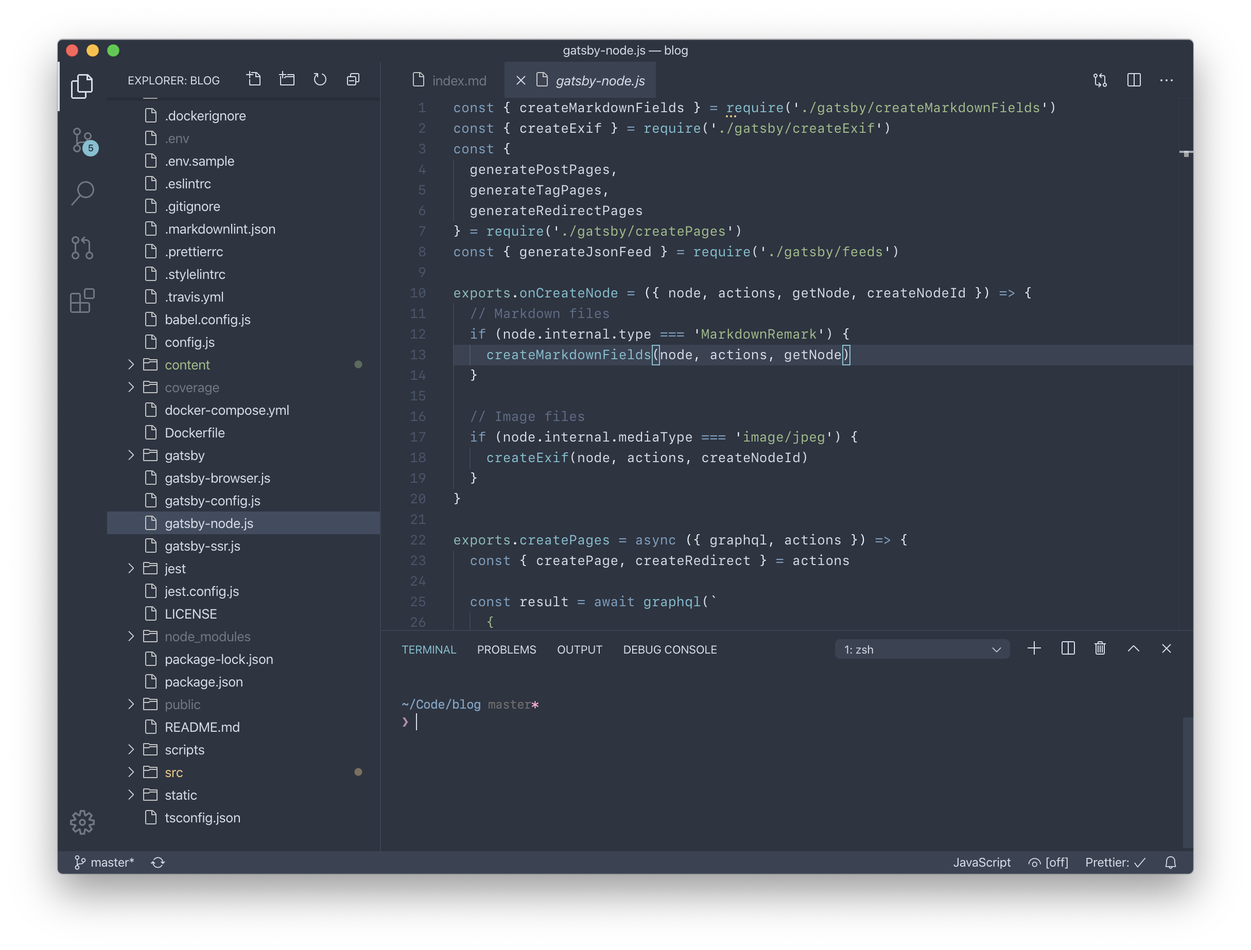
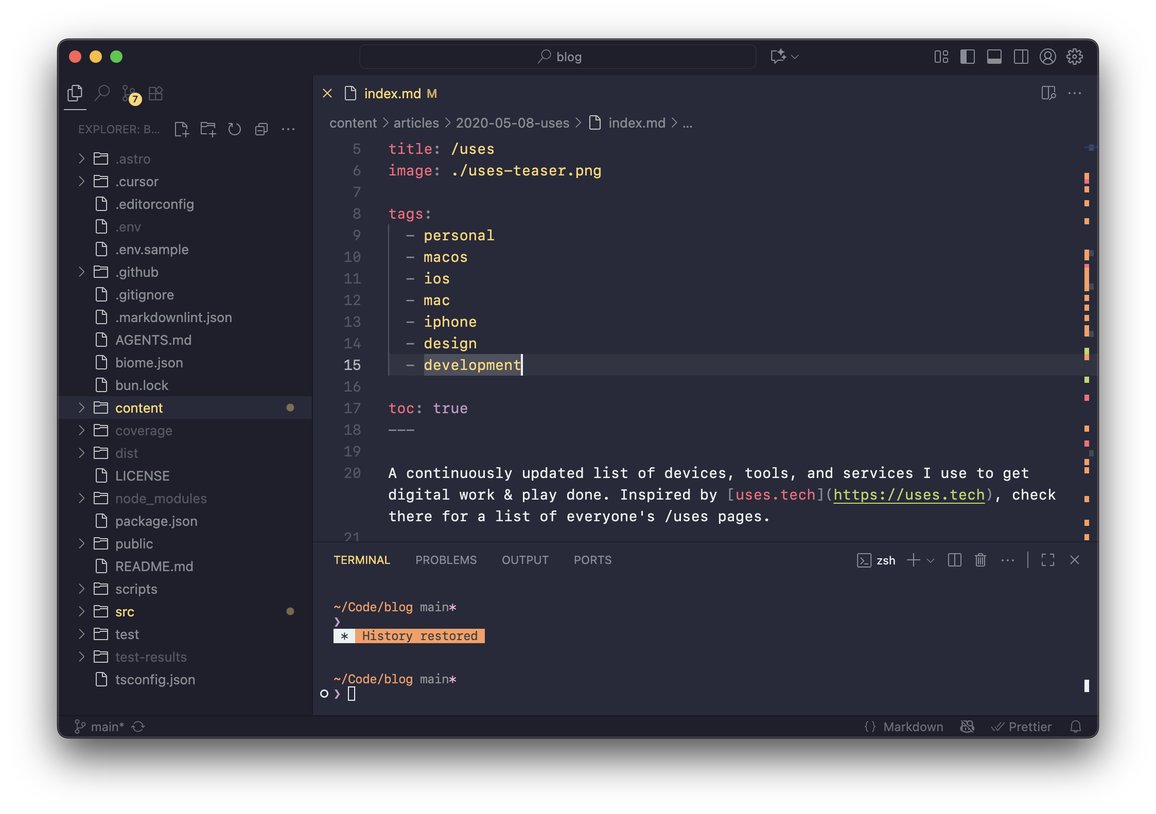
/uses updates

diff --git a/content/articles/2020-05-08-uses/index.md b/content/articles/2020-05-08-uses/index.md
@@ -1,6 +1,6 @@
 ---
 date: 2020-05-10T21:51:12Z
-updated: 2024-09-26T18:41:12+00:00
+updated: 2025-09-23T19:31:12Z
 
 title: /uses
 image: ./uses-teaser.png
@@ -25,248 +25,226 @@ A continuously updated list of devices, tools, and services I use to get digital
 
 My office is where my MacBook is, all these devices go wherever I travel to:
 
-- **[MacBook Air M2 (13-inch, 2022)](https://www.apple.com/macbook-air-13-and-15-m2/)**  
+- **[MacBook Air M2 (13-inch, 2022)](https://www.apple.com/macbook-air-13-and-15-m2/)**
   _Midnight, M2 with 8-core CPU and 10-core GPU, 16 GB RAM, 1TB SSD, US International keyboard_
 
-- **[iPhone 16 Pro](https://www.apple.com/iphone-16-pro/)**  
+- **[iPhone 16 Pro](https://www.apple.com/iphone-16-pro/)**
   _Black Titanium, 256GB_
 
 - **[AirPods Pro](https://www.apple.com/airpods-pro/)**
-
-- **[iPad Pro (12.9-inch) 2021](https://www.apple.com/ipad-pro/)**  
+-
+- **[Powerbeats Pro 2](https://www.beatsbydre.com/earbuds/powerbeats-pro-2)**
+-
+- **[iPad Pro (12.9-inch) 2021](https://www.apple.com/ipad-pro/)**
   _Space Gray, 512GB, WiFi + Cellular_
 
-- **[Apple Watch Series 5](https://www.apple.com/apple-watch-series-5/)**  
-  _40mm Space Gray Aluminum Case, Black Solo Loop_
+- **[Apple Watch Series 10](https://www.apple.com/watch/)**
+  _46mm, Space Gray, Aluminum_
 
-- **[Kindle Paperwhite 11th Gen](https://www.amazon.com/dp/B08KTZ8249)**
+Additionally, using the following devices in my homebase, those leave my desk for longer trips:
 
-Additionally, using the following devices in my homebase, those only leave my desk for longer trips:
-
-- **[MacBook Pro (16-inch, 2019)](https://www.apple.com/macbook-pro-16/)**  
-  _Space Gray, 2.6GHz 6-Core Intel Core i7, 16 GB RAM, 512GB SSD, AMD Radeon Pro 5300M 4GB, US International keyboard_
-
-- **[Logitech MX Master 3 for Mac](https://www.logitech.com/en-us/products/mice/mx-master-3-mac-wireless-mouse.910-005693.html)**  
+- **[Logitech MX Master 3 for Mac](https://www.logitech.com/en-us/products/mice/mx-master-3-mac-wireless-mouse.910-005693.html)**
   _Black & Space Gray_
 
-- **[Satechi Slim X1 Bluetooth Backlit Keyboard](https://satechi.net/products/slim-x1-bluetooth-backlit-keyboard)**  
+- **[Satechi Slim X1 Bluetooth Backlit Keyboard](https://satechi.net/products/slim-x1-bluetooth-backlit-keyboard)**
   _US, Space Gray_
 
-- **[Raspberry Pi 5](https://www.raspberrypi.com/products/raspberry-pi-5/)**  
+- **[Raspberry Pi 5](https://www.raspberrypi.com/products/raspberry-pi-5/)**
   _8GB RAM_
 
 ## Software
 
-It's [macOS](https://www.apple.com/macos/) & [iOS](https://www.apple.com/ios/) & [iPadOS](https://www.apple.com/ipados/) & [watchOS](https://www.apple.com/watchos/) all around. The majority of my work is done on macOS.
+In general, it's [macOS](https://www.apple.com/macos/) & [iOS](https://www.apple.com/ios/) & [iPadOS](https://www.apple.com/ipados/) & [watchOS](https://www.apple.com/watchos/) all around. The majority of my work is done on macOS.
 
-I keep it simple and use most of the default Apple apps across devices for all basic computing needs: **Mail**, **Calendar**, **Notes**, **Reminders**, **Contacts**, **Messages**, **Photos**, **Music**. Most of the additional apps I use have versions for macOS & iOS.
+I keep it simple and use the default Apple apps across devices for all basic computing needs: **Mail**, **Calendar**, **Notes**, **Reminders**, **Contacts**, **Messages**, **Photos**, **Music**. The additional apps I use have versions for macOS & iOS.
 
-Living a cloud-first life where all my files are stored in some cloud service and are selectively synced to any device. Mail, Calendar, and Contacts are hooked up to personal and work **[Google G Suite](https://gsuite.google.com)** accounts.
+Living a cloud-first life where all my files are stored in some cloud service and are selectively synced to any device.
+
+Mail, Calendar, and Contacts are hooked up to personal and work **[Fastmail](https://www.fastmail.com)** accounts.
 
 I live with **automatic dark mode** where all my devices and apps have a light theme during the day, and a dark theme after sunset.
 
 ### File Storage & Sync
 
-- **Finder & Files**  
-  So simple, yet powerful. I use Finder & the iOS Files app to access all my files from multiple sources: iCloud, SSH servers through [Secure ShellFish](https://secureshellfish.app), local [network drives attached to my Raspberry Pi](/raspberry-pi-file-and-screen-sharing-macos-ios), or version controlled projects in WorkingCopy.
+- **Finder & Files**
+  Simple, yet powerful. I use Finder & the iOS Files app to access all my files from multiple sources: iCloud, SSH servers through [Secure ShellFish](https://secureshellfish.app), local [network drives attached to my Raspberry Pi](/raspberry-pi-file-and-screen-sharing-macos-ios), or version controlled projects in WorkingCopy.
 
-- **[iCloud Drive, 2 TB](https://www.icloud.com)**  
-  I have used Dropbox Pro for many years but it became too clunky and Apple's version turned into what I wanted Dropbox to be. Most of my non-code related files live there and are happily synced. Since [Advanced Data Protection](https://support.apple.com/guide/security/advanced-data-protection-for-icloud-sec973254c5f/web) also replaces [Tresorit](https://tresorit.com) for me.
+- **[iCloud Drive, 2 TB](https://www.icloud.com)**
+  I have used Dropbox Pro for many years but it became too clunky and Apple's version turned into what I wanted Dropbox to be. My non-code related files live there and are happily synced.
 
-- **[Scanner Pro](https://readdle.com/scannerpro)**  
-  Listed here because this app on my iPhone makes every piece of paper coming across my desk into a digital file helping me maintain a **paperless office**. Works like a charm with any document in multiple languages making them searchable with OCR. Every scan I do with it produces a high quality black & white PDF file, ready for digital filing. This gives me quick access to every official document I might need to give to someone no matter where I am in the world. Scanned paper documents are then destroyed and put into recycling.
+- **[Scanner Pro](https://readdle.com/scannerpro)**
+  Listed here because this app on my iPhone makes every piece of paper coming across my desk into a digital file helping me maintain a **paperless office**. Works like a charm with any document in multiple languages making them searchable with OCR. Scanned paper documents are then destroyed and put into recycling.
 
 ### Browsing
 
-- **[Safari](https://www.apple.com/safari/)**  
+- **[Safari](https://www.apple.com/safari/)**
   My main browser on every device. I stay for best typography rendering of any browser, the feature & UI minimalism, and the privacy and content blocking features. No extensions at all except for 1Blocker.
 
-- **[DuckDuckGo](https://duckduckgo.com)**  
+- **[DuckDuckGo](https://duckduckgo.com)**
   My search engine on all devices in all browsers.
 
-- **[1Blocker](https://1blocker.com)**  
-  My content blocker of choice for Safari so I rarely see any ad tech bullshit even outside of my network without Pi-Hole. Fast, effective, and completely unobtrusive on every device.
+- **[1Blocker](https://1blocker.com)**
+  My content blocker of choice for Safari so I rarely see any ad tech bullshit. Fast, effective, and unobtrusive on every device.
 
-- **[Thorium](https://thorium.rocks)**  
-  My secondary browser on macOS mainly used for all things crypto, development and debugging. Sadly Firefox stopped support for connecting hardware wallets so had to switch to a browser based on Chromium. Running with those extensions:
-
-  - [React Developer Tools](https://addons.mozilla.org/en-US/firefox/addon/react-devtools/)
-  - Switching between [Zerion](https://zerion.io) & [Rainbow](https://rainbow.me) as daily drivers for web3 stuff.
-  - [MetaMask](https://metamask.io): the wallet for Dapp testing.
-  - [uBlock Origin](https://ublockorigin.com): I wish Safari content blockers could also be used in other browsers but uBlock Origin does a good job too.
-
-- Test browsers: **Firefox**, **Chrome**, **Edge**, **Brave**, **Opera**
+- **[Ungoogled Chromium](https://github.com/ungoogled-software/ungoogled-chromium-macos)**
+  My secondary browser on macOS mainly used for all things crypto. Sadly Firefox stopped support for connecting hardware wallets and they refuse to fix their [broken pinned tabs feature](https://connect.mozilla.org/t5/ideas/make-pinned-tabs-persist-between-windows-by-default/idi-p/8059), so I had to switch to a browser based on Chromium. Switching between [Zerion](https://zerion.io) & [Rainbow](https://rainbow.me) & [MetaMask](https://metamask.io) as daily drivers for web3 stuff.
 
 ### Development
 
-![Terminal.app: Nord, SF Mono, Pure](./terminal.png)
-![VS Code dark theme: Nord, SF Mono](./vscode-dark.png)
-![VS Code light theme: Polar, SF Mono](./vscode-light.png)
+- **[VS Code](https://code.visualstudio.com) & [Cursor](https://cursor.com/)**
+  From Notepad, to Dreamweaver, to CSS Edit, to Coda, to Espresso, to TextMate, to Atom, and now I arrived at VS Code. Its feature set, coding experience, and ecosystem far outweigh the Electron drawbacks, and at least it is the most performant Electron app I know.
 
-- **[VS Code](https://code.visualstudio.com)**  
-  From Notepad, to Dreamweaver, to CSS Edit, to Coda, to Espresso, to TextMate, to Atom, and now I arrived at VS Code. Its feature set, coding experience, and ecosystem far outweigh the Electron drawbacks, and at least it is the most performant Electron app I know. I still miss [Espresso](https://www.espressoapp.com) as my personal gold standard for how a code editor UI on macOS should look and behave. Using only a small set of extensions mostly for automatic code formatting based on various tools:
+  Using a small set of extensions for automatic code formatting with either ESLint/Prettier combo or Biome in both editors.
 
-  - [Nord](https://marketplace.visualstudio.com/items?itemName=arcticicestudio.nord-visual-studio-code): patiently awaiting a light version of it, until then [Polar](https://marketplace.visualstudio.com/items?itemName=merithayan.polar) does the job.
-  - [ESLint](https://marketplace.visualstudio.com/items?itemName=dbaeumer.vscode-eslint)
-  - [GitHub Pull Requests and Issues](https://marketplace.visualstudio.com/items?itemName=GitHub.vscode-pull-request-github)
-  - [Import Cost](https://marketplace.visualstudio.com/items?itemName=wix.vscode-import-cost)
-  - [Markdown All in One](https://marketplace.visualstudio.com/items?itemName=yzhang.markdown-all-in-one)
-  - [npm Intellisense](https://marketplace.visualstudio.com/items?itemName=christian-kohler.npm-intellisense)
-  - [Prettier](https://marketplace.visualstudio.com/items?itemName=esbenp.prettier-vscode)
-  - [Spell Right](https://marketplace.visualstudio.com/items?itemName=ban.spellright)
-  - [stylelint](https://marketplace.visualstudio.com/items?itemName=stylelint.vscode-stylelint)
+  I miss [Espresso](https://www.espressoapp.com) as my personal gold standard for how a code editor UI on macOS should look and behave. For that reason occasionally dropping into Panic's [Nova](https://nova.app) but it does not fit my development workflow for larger projects anymore.
 
-- **[Nord](https://www.nordtheme.com)**  
-  My go to syntax color theme for everything displaying code, including code snippets displayed on this blog.
+- **[Monokai Pro Octagon](https://monokai.pro)**
+  My go to syntax color theme for everything displaying code. Used with a bunch of my own style customizations in VSCode and Cursor.
 
-- **[SF Mono](https://developer.apple.com/fonts/)** or **[Fira Code](https://github.com/tonsky/FiraCode)**  
+- **[SF Mono](https://developer.apple.com/fonts/)** or **[Fira Code](https://github.com/tonsky/FiraCode)**
   I can never decide and switch between them for everything which displays code.
 
-- **Terminal.app**
-  Switching between Terminal.app and the integrated terminal in VS Code all the time.
+![VS Code dark theme: Monokai Pro Octagon, SF Mono](./vscode-dark.png)
+![VS Code light theme: GitHub Light, SF Mono](./vscode-light.png)
 
-  - my default shell is **[Zsh](https://www.zsh.org)**
-  - configured with my own **[dotfiles](https://github.com/kremalicious/dotfiles)**
-  - styled with **[Pure](https://github.com/sindresorhus/pure)**.
+- **[Ghostty](https://ghostty.org)**
+  Switching between Ghostty and the integrated terminal in VS Code all the time. My default shell is [Zsh](https://www.zsh.org). Configured with my own [dotfiles](https://github.com/kremalicious/dotfiles) and styled with [Pure](https://github.com/sindresorhus/pure).
 
-- **[Git](https://git-scm.com)**  
-  Most of my projects are under version control and are synced as Git repositories. Using Git in Terminal.app, within VS Code, and occasionally with [GitHub Desktop](https://desktop.github.com). Almost everything I do for work is embedded in a Git-based workflow. Every commit I create on any device is signed with one of my GPG keys.
+![Ghostty dark theme: Monokai Pro, SF Mono, Pure](./terminal-dark.png)
+![Ghostty light theme: GitHub Light, SF Mono, Pure](./terminal-light.png)
 
-- **[Kaleidoscope](https://www.kaleidoscopeapp.com)**  
+- **[Git](https://git-scm.com)**
+  My projects are under version control and are synced as Git repositories. Using Git on command line, within VS Code, and occasionally with [GitHub Desktop](https://desktop.github.com). Everything I do for work is embedded in a Git-based workflow. Every commit I create on any device is signed with one of my GPG keys.
+
+- **[OrbStack](https://orbstack.dev)**
+  Lots of work projects are Dockerized so there's always a bunch of Docker containers running on my machine. OrbStack is amazingly performant compared to the official Docker Desktop.
+
+- **[Kaleidoscope](https://www.kaleidoscopeapp.com)**
   I'm a senior developer and still don't know how to properly resolve a merge conflict without this app.
 
-- **[Docker Desktop](https://www.docker.com/products/docker-desktop)**  
-  Lots of work projects are Dockerized so there's always a bunch of Docker containers running on my machine. Still prefer to directly use my local development environment for everything JavaScript/Node.js based.
-
-- **[Transmit](https://www.panic.com/transmit/)**  
+- **[Transmit](https://www.panic.com/transmit/)**
   Use it since like forever on macOS. Gives me file access to pretty much everything within my network and remote resources, including S3 & Wasabi on both, macOS & iOS.
 
-- **[Secure ShellFish](https://secureshellfish.app)**  
-  Just like Transmit gives me file access to network and remote resources over SSH & SFTP. But truly unique in its iOS integration where all resources simply show up in Files.app and can be used there on a daily basis. Also has a great terminal on top, which can even be started from Files.app.
+- **[Secure ShellFish](https://secureshellfish.app)**
+  Like Transmit, gives me file access to network and remote resources over SSH & SFTP on iOS, making them available in Files.app. Has a great terminal on top.
 
-- **[Working Copy](https://workingcopyapp.com)**  
-  One of the most powerful development tools on iOS making version-controlled, on-device development actually possible. In my workflow it is the basis for doing quick code or copy edits. Because it is a document provider on iOS, I can directly access my cloned Git repositories from any other app.
+- **[Working Copy](https://workingcopyapp.com)**
+  One of the most powerful development tools on iOS making version-controlled, on-device development possible. In my workflow it is the basis for doing quick code or copy edits. Because it is a document provider on iOS, I can directly access my cloned Git repositories from any other app.
 
-- **[GitHub for mobile](https://github.com/mobile/)**  
+- **[GitHub for mobile](https://github.com/mobile/)**
   The iOS app is crazy good for quickly managing issues and code reviews. Rarely use the [desktop version](https://desktop.github.com).
 
-- **[Homebrew](https://brew.sh)**  
+- **[Homebrew](https://brew.sh)**
   The trusty package manager for the Unix side of macOS, for all the stuff which is not Dockerized.
 
-- **[nvm](https://github.com/nvm-sh/nvm)**  
+- **[nvm](https://github.com/nvm-sh/nvm)**
   I need to switch between multiple Node.js versions throughout the day and nvm has always been perfect for that.
+
+- **[Bun](https://bun.com)**
+  Really nice Node.js replacement I prefer to use over Node.js.
 
 ### Design
 
-- **[Sketch](https://www.sketch.com)** & **[Figma](https://www.figma.com)**  
-  I mostly design in the browser but when required, all my UI wireframing, prototyping, and design needs are met with either Sketch or Figma. Prefer Sketch for the perfectly native UI, but Figma for drawing performance and its collaboration features.
+- **[Sketch](https://www.sketch.com)** & **[Figma](https://www.figma.com)**
+  I mostly design in the browser but when required, all my UI wireframing, prototyping, and design needs are met with either Sketch or Figma. Prefer Sketch for the perfectly native UI, but Figma for its collaboration features.
 
-- **[Pixave](http://www.littlehj.com/mac/)**  
-  Storing full page screenshots of every site or other visual work I create in here. Feels dated and buggy by now so in dire need of replacement.
+- **[Polypane](https://polypane.app)**
+  Essential for designing in the browser with great handy features all around.
 
-- **[xScope](https://xscopeapp.com)**  
+- **[xScope](https://xscopeapp.com)**
   When stuff on screen just has to be pixel-perfect. Always used to check for accessible colors in all UIs I create.
 
-- **[Typeface](https://typefaceapp.com)**  
+- **[Typeface](https://typefaceapp.com)**
   My font manager of choice. Nice and simple.
 
-- **[Sip](https://sipapp.io)**  
+- **[Sip](https://sipapp.io)**
   Using this to pick colors from everywhere on the screen.
 
-- **[ImageOptim](https://imageoptim.com)**  
-  Every bitmap asset I put into production goes through this app to keep file size small.
+- **[Pixave](http://www.littlehj.com/mac/)**
+  Storing full page screenshots of every site or other visual work I create in here. Feels dated and buggy by now so in dire need of replacement.
 
 ### Photos
 
-- **iCloud Photos**  
+- **iCloud Photos**
   All my master photos live in iCloud, and are selectively synced to devices in Photos.app. I make sure every photo ending up in here has the correct location and capturing date in its metadata, like for a lot of scanned analog photos from the last century.
 
-- **[Photos](https://www.apple.com/ios/photos/)**  
+- **[Photos](https://www.apple.com/ios/photos/)**
   Using it on all devices, most edits happen on my iPhone with it. Metadata editing often happens in the [macOS version](https://www.apple.com/macos/photos/). Has everything I need since iOS 13. Originally, my library moved from folders, to iPhoto, to Aperture, to Lightroom, and from there back to Photos.
 
-- **[Metaphoto](https://zininworks.com/metapho/)**  
-  Excellent metadata editing on iOS for single photos, or bulk editing. Directly accesses and modifies the originals from Photos.app and writes modified location & date back to them.
-
-- **[Halide](https://halide.cam)**  
+- **[Halide](https://halide.cam)**
   For capturing everything the image sensors of my iPhone can deliver. Gorgeous interaction & UI design.
 
-- **[Darkroom](https://darkroom.co)**  
+- **[Darkroom](https://darkroom.co)**
   For more refined editing on iOS.
-
-- **[Affinity Photo](https://affinity.serif.com/en-gb/photo/)**  
-  When a photo needs even more refined editing, primarily used on macOS.
 
 ### Music
 
-- **Music**  
+- **Music**
   Used iTunes to manage my music library since I use a Mac. Digitalized my CD library in Apple Lossless into it in the 2000s, first synced to mobile devices (iPod, then iPhone) via cable, then "synced" with iTunes Match without any cables. Now this library is running with Music, in a mix with Apple Music. This library with the lossless files is living on a network drive in my home network and is accessed from there when sitting at a Mac.
 
-- **[Apple Music](https://www.apple.com/apple-music/)**  
+- **[Apple Music](https://www.apple.com/apple-music/)**
   Used for discovering new music and its excellent playlist curation.
 
 ### Messaging
 
-- **Mail**  
+- **Mail**
   Apple's default email app has always worked for me, on all devices, so I just stick to it.
 
-- **[GnuPG](https://gnupg.org)**  
-  Use it since I use email but its clunky and rarely anyone uses it. Interacting with it only in Terminal.app for decrypting and encrypting, and use it to sign Git commits. Yes, I'm aware of [GPG Suite](https://gpgtools.org) but the instability it introduces into the whole operating system is not worth the usage to me.
+- **[GnuPG](https://gnupg.org)**
+  Use it since I use email but it's clunky and rarely anyone uses it. Interacting with it only in Terminal.app for decrypting and encrypting, and use it to sign Git commits. Yes, I'm aware of [GPG Suite](https://gpgtools.org) but the instability it introduces into the whole operating system is not worth the usage to me.
 
-- **[Messages](https://support.apple.com/explore/messages) & [WhatsApp](https://whatsapp.com)**  
+- **[Messages](https://support.apple.com/explore/messages) & [WhatsApp](https://whatsapp.com)**
   The only messengers I use every day for personal stuff, mostly on my iPhone.
 
-- **[Signal](https://www.signal.org)**  
-  In an ideal world everybody would use this so all our private messaging is not controlled by some single, closed-source entity with varying degrees of ad tech evilness.
-
-- **[Discord](https://discord.com)**  
-  The main work communication tool, mostly used on macOS. Loved and hated in equal parts.
+- **[Signal](https://www.signal.org)**
+  In an ideal world everybody would use this so all our private messaging is not controlled by a single, closed-source entity with varying degrees of ad tech evilness.
 
 ### Writing
 
 Except within Notes.app, everything I write is composed as [GitHub Flavored Markdown](https://github.github.com/gfm/).
 
-- **[iA Writer](https://ia.net/writer)**  
+- **[iA Writer](https://ia.net/writer)**
   Every longer text I write starts and lives here first.
 
-- **[VS Code](https://code.visualstudio.com)**  
-  Most development-related writing ends up in VS Code, side-by-side with its Markdown preview.
+- **[VS Code](https://code.visualstudio.com)**
+  Development-related writing ends up in VS Code, side-by-side with its Markdown preview.
 
 ### Password Management
 
-- **[1Password](https://1password.com)**  
-  Actively store pretty much every password in here. The 1Password keychain is only synced locally via WiFi to my other devices.
+- **[1Password](https://1password.com)**
+  Actively store every password in here.
 
-- **[iCloud Keychain](https://support.apple.com/en-us/HT204085)**  
+- **[iCloud Keychain & Passwords.app](https://support.apple.com/en-us/HT204085)**
   Replaces 1Password a lot for me during daily browsing because of its perfect integration into Safari.
 
 ### Reading
 
-- **[Reeder](https://www.reederapp.com)**  
-  Never stopped using RSS for my news reading and Reeder has always been a joy to use. Have it on all my devices but prefer reading on the iPad with it. I use [Feedly](https://feedly.com) to manage and sync my subscriptions in the background.
+- **[Reeder](https://www.reederapp.com)**
+  Never stopped using RSS for my news reading and Reeder has always been a joy to use. Have it on all my devices but prefer reading on the iPad with it. Keeping it simple and using its native iCloud integration to manage and sync my subscriptions in the background.
 
-- **[Instapaper](https://www.instapaper.com)**  
+- **[Instapaper](https://www.instapaper.com)**
   My read-later service, mostly reading articles through the Instapaper app on iPhone or iPad, but also have it setup in Reeder.
 
-- **[Books](https://www.apple.com/apple-books/)**  
+- **[Books](https://www.apple.com/apple-books/)**
   I prefer buying ePub files directly from book authors which then end up in Books. Pretty much all my technical books live here and are synced via iCloud.
 
 ### Health & Fitness
 
-- **[Health](https://www.apple.com/ios/health/)** & **[Fitness](https://www.apple.com/watch/close-your-rings/)**  
+- **[Health](https://www.apple.com/ios/health/)** & **[Fitness](https://www.apple.com/watch/close-your-rings/)**
   Any health and fitness-related app I use feeds data into these apps, making them my main health data dashboard.
 
-- **[Workout](https://support.apple.com/en-us/HT204523)**  
+- **[Workout](https://support.apple.com/en-us/HT204523)**
   Everything I need from an app to track workouts, which only happens on watchOS these days. It is pretty much perfect and replaced [Runkeeper](https://runkeeper.com) for me.
 
 ### Backup
 
-- **The Cloud™**  
-  Everything I create is either stored in iCloud, Tresorit, or a pushed Git repository, making this my first line of defense for data loss.
+- **The Cloud™**
+  Everything I create is either stored in iCloud or a pushed Git repository, making this my first line of defense for data loss.
 
-- **[Arq](https://www.arqbackup.com)**  
+- **[Arq](https://www.arqbackup.com)**
   My second line of defense, the snapshot backup tool used for all Macs I had in the last years. Encrypts everything locally before uploading. The same backups are sent every hour to a [Wasabi](https://wasabi.com) bucket, and in my local network to a hard drive connected to the Raspberry Pi via Samba. I have kept all my former Mac snapshots within the same bucket on Wasabi, so I can always jump back to any of their snapshots. Always super stable and happy with it.
 
-- **[iCloud Backup](https://support.apple.com/en-us/HT203977)**  
+- **[iCloud Backup](https://support.apple.com/en-us/HT203977)**
   All mobile devices simply use this to create their backups.
 
 ## Self Hosted
@@ -275,10 +253,12 @@ Except within Notes.app, everything I write is composed as [GitHub Flavored Mark
 
 - I run my own **analytics server** with **[Umami](https://umami.is)**.
 
-- I run my own **Git repository hosting** with **[Gitea](https://gitea.com)** for private projects, and for automatically mirroring every GitHub repository I touch into it. A VPS running within **[Amazon Lightsail](https://aws.amazon.com/lightsail/)**.
+- I run my own **Git repository hosting** with **[Gitea](https://gitea.com)** for private projects, and for automatically mirroring every GitHub repository I touch. A VPS running within **[Amazon Lightsail](https://aws.amazon.com/lightsail/)**.
 
 - I run a public **[IPFS](https://ipfs.io)** node & gateway, powered by a VPS on **[Amazon Lightsail](https://aws.amazon.com/lightsail/)**, and the frontend delivered via **[Vercel](https://vercel.com)**.
 
 - I run multiple **[Tor](https://www.torproject.org)** exit relays, VPS distributed between **[Scaleway](https://www.scaleway.com)** & **[OVH](https://www.ovh.com)**.
 
-- For every other serverless and JAMstack need I prefer **[Vercel](https://vercel.com)** for its simplicity.
+- For serverless and JAMstack need I prefer **[Vercel](https://vercel.com)** for its simplicity.
+
+- For more complex apps I prefer **[Railway](https://railway.com?referralCode=Yee5pL)** for its simplicity.
